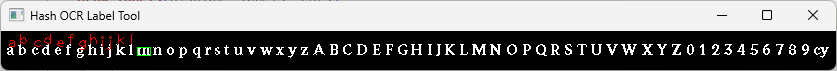
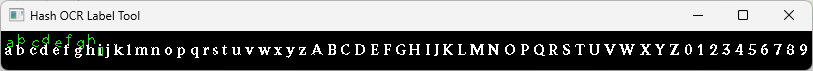
chore: add multiple minor changes
- change project description
- label tool colors
- update beaufont

diff --git a/hash_ocr/label.py b/hash_ocr/label.py
@@ -15,7 +15,7 @@ def draw_labels(
             if label is None:
                 continue
             x, y, _, _ = cv2.boundingRect(cnts[i])
-            cv2.putText(img, label, (x, y), 1, 1, (0, 0, 255))
+            cv2.putText(img, label, (x, y), 1, 1, (0, 255, 0))
         except IndexError:
             pass
 

diff --git a/README.md b/README.md
@@ -1,6 +1,6 @@
 # hash-ocr
 
-An ocr designed to read in game texts
+Fast OCR to read computer rendered texts.
 
 ## Installation
 
